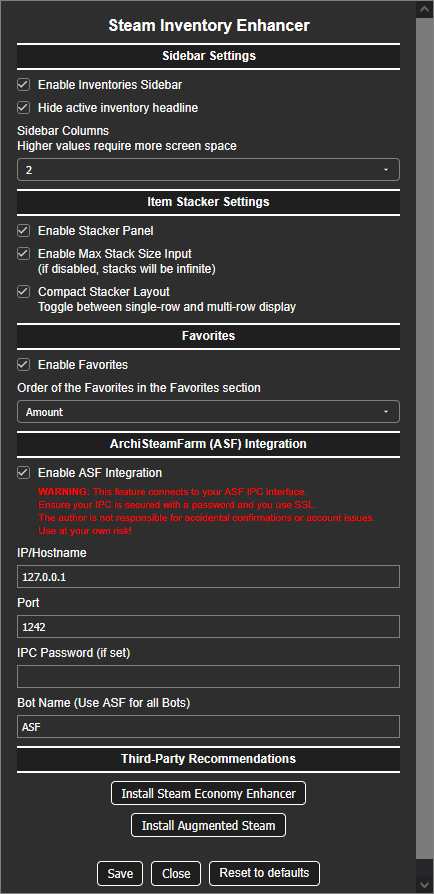
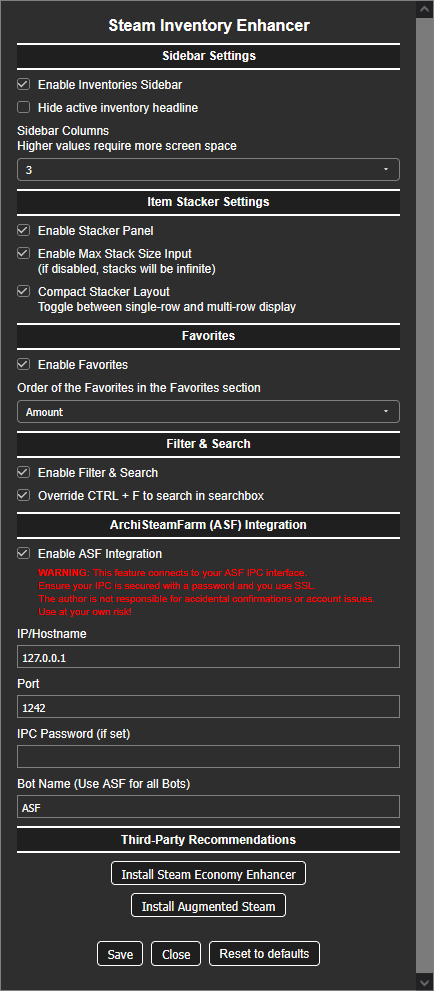
CTRL + F focus searchbox directly

Changed region(s): [[0.03, 0.0, 0.9286, 0.9966], [0.9585, 0.9362, 1.0, 1.0], [0.9585, 0.0, 0.9885, 0.0302]]

diff --git a/userscripts/Steam_Inventory_Enhancer/script.user.js b/userscripts/Steam_Inventory_Enhancer/script.user.js
@@ -1,7 +1,7 @@
 // ==UserScript==
 // @name            Steam Inventory Enhancer
 // @namespace       https://kurotaku.de
-// @version         1.1
+// @version         1.1.1
 // @description     Adds mass stacking/unstacking tools, a customizable sidebar with favorites, advanced inventory filtering/sorting, and ASF IPC integration for seamless 2FA confirmations.
 // @description:de  Fügt Tools zum Massen-Stapeln/Entstapeln, eine anpassbare Seitenleiste mit Favoriten, erweiterte Filter- und Sortierfunktionen für Inventare sowie eine ASF-IPC-Integration für 2FA-Bestätigungen hinzu.
 // @author          Kurotaku
@@ -41,7 +41,7 @@
     if (GM_config.get("inv_favorites_enabled"))
         Favorites.init();
 
-    if (GM_config.get("filter_search__enabled"))
+    if (GM_config.get("filter_search_enabled"))
         Filter.init();
 
     if (GM_config.get("asf_enabled"))
@@ -100,11 +100,16 @@ async function init_gm_config() {
                 options: ['Name', 'Amount', 'Added to Favorites', 'Added to Favorites Reversed'],
                 default: 'Amount',
             },
-            filter_search__enabled: {
+            filter_search_enabled: {
                 section: ['Filter & Search'],
                 type: 'checkbox',
                 default: true,
                 label: 'Enable Filter & Search'
+            },
+            filter_search_ctrl_f_hotkey: {
+                type: 'checkbox',
+                default: true,
+                label: 'Override CTRL + F to focus searchbox'
             },
             asf_enabled: {
                 section: ['ArchiSteamFarm (ASF) Integration'],
@@ -880,6 +885,9 @@ class Filter {
         // Load initial sort state or default to amount_desc
         const current_sort = GM_getValue("sie_filter_sort", "amount_desc");
         this.sort_list(current_sort);
+
+        if (GM_config.get("filter_search_ctrl_f_hotkey"))
+            this.override_hotkey();
     }
 
     static inject_controls(container) {
@@ -1018,6 +1026,23 @@ class Filter {
             if ((e.shiftKey || (e.keyCode < 48 || e.keyCode > 57)) && (e.keyCode < 96 || e.keyCode > 105))
                 e.preventDefault();
         };
+    }
+
+    static override_hotkey() {
+        window.addEventListener('keydown', (e) => {
+            // Check for CTRL+F (Windows/Linux) or CMD+F (Mac)
+            if ((e.ctrlKey || e.metaKey) && e.key === 'f') {
+                const searchInput = document.getElementById("sie_filter_search");
+
+                if (searchInput) {
+                    e.preventDefault(); // Prevent Browser Search
+                    searchInput.focus();
+
+                    // Select Text
+                    searchInput.select();
+                }
+            }
+        });
     }
 }
 

diff --git a/userscripts/Steam_Inventory_Enhancer/README.md b/userscripts/Steam_Inventory_Enhancer/README.md
@@ -32,10 +32,11 @@ This userscript enhances the Steam inventory experience by adding essential qual
 - **Custom Sorting:** Sort your pinned inventories by Name, Item Amount, or the date they were added.
 
 ### Inventory Filtering
-- **Advanced Search:** Find specific game inventories instantly with a real-time search field.
+- **Advanced Search:** Find specific game inventories instantly with search field.
 - **Amount Range:** Filter inventories by item count using Min and Max fields.
 - **Multi-Sort:** Toggle between Name and Amount sorting (Ascending ▴ / Descending ▾).
 - **Quick Reset:** Clear individual filters or reset everything with a single click.
+- **Override CTRL + F Hotkey:** The hotkey will focus automatically the search field instead the browsers native search.
 
 ### ASF Integration (IPC)
 - **Remote 2FA:** Accept or deny all mobile confirmations directly from the Steam inventory "More" menu.